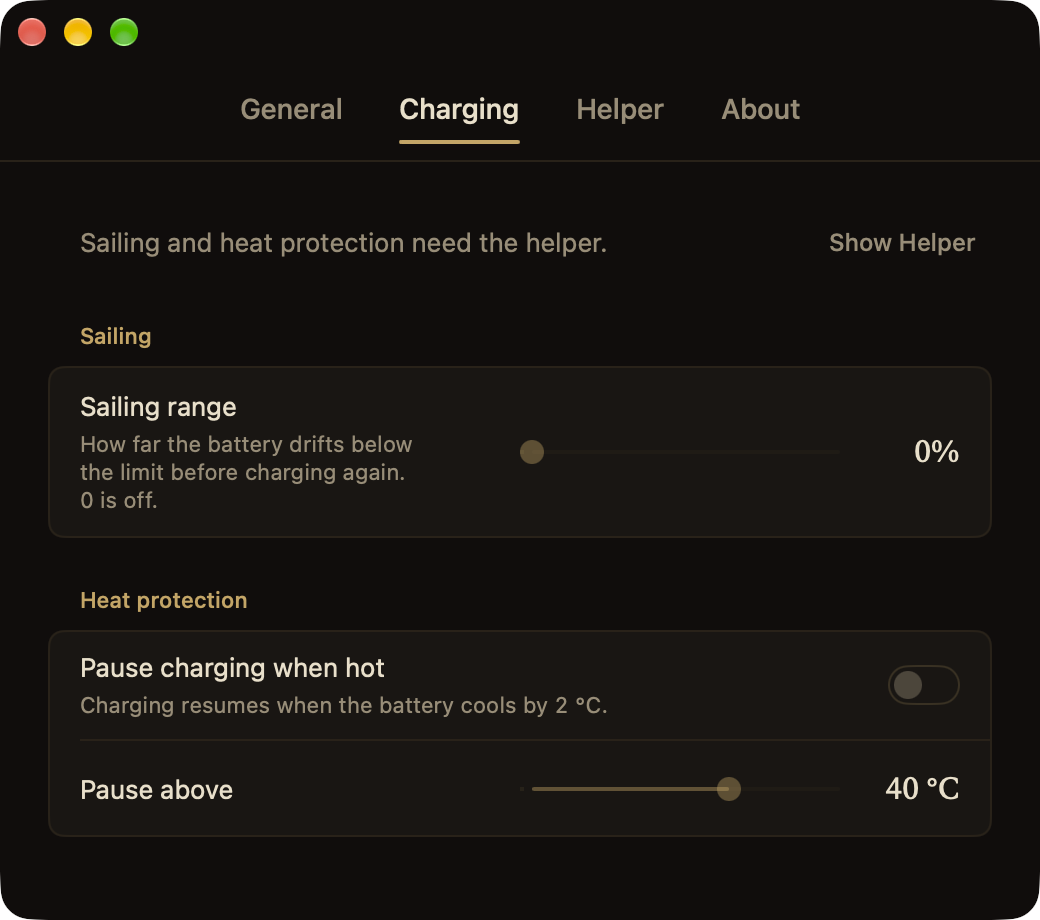
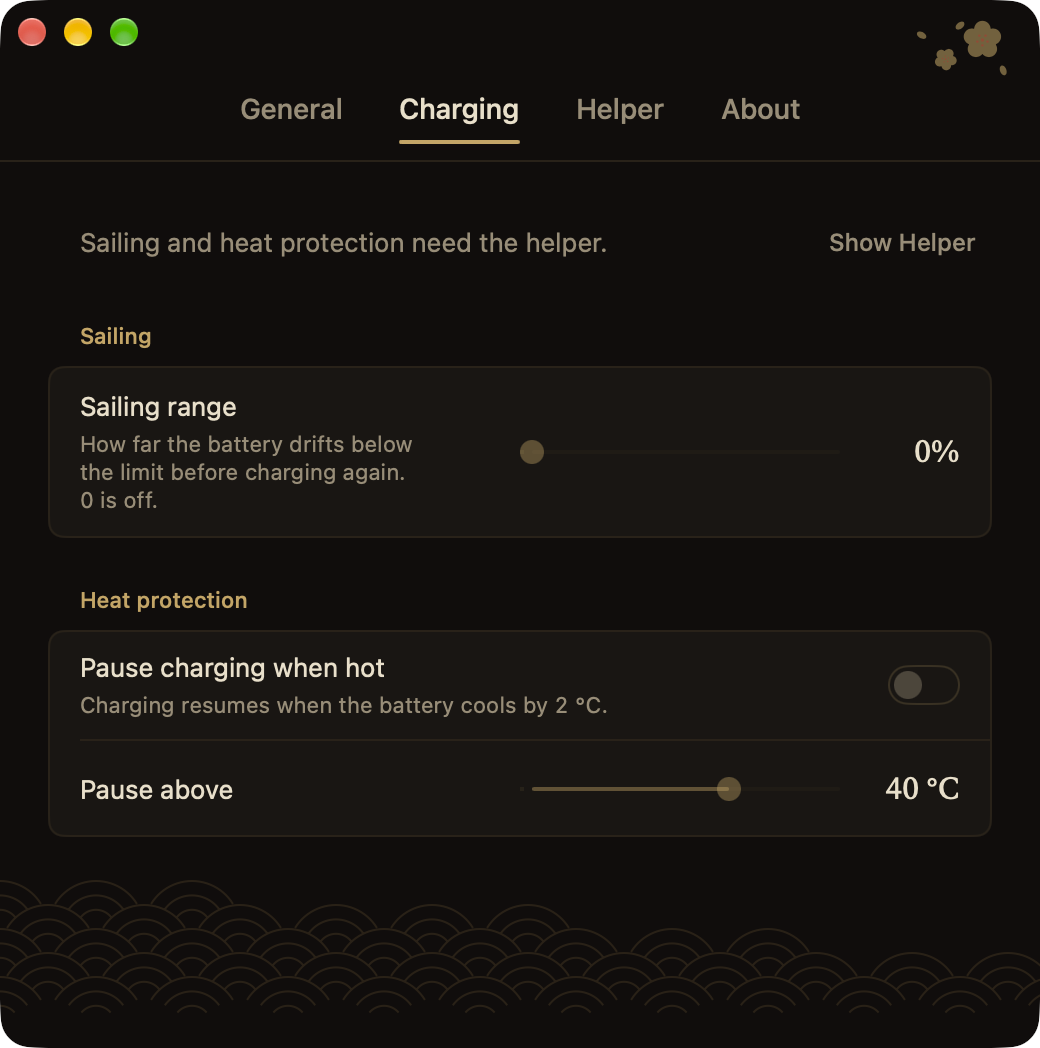
Add waves and plum blossoms to the Settings window and the About tab

diff --git a/Sources/Hachibu/DesignKit/Components/Motifs.swift b/Sources/Hachibu/DesignKit/Components/Motifs.swift
@@ -1,0 +1,120 @@
+import SwiftUI
+
+// The two motifs from the app icon, for quiet decoration. Both are hidden
+// from VoiceOver and never carry meaning.
+
+/// Seigaiha, the pattern of calm seas: rows of overlapping scales, each
+/// three concentric arcs, rising from the bottom edge and higher on the
+/// leading side, like a shoreline. Stroke it with `Ink.relief`.
+nonisolated struct Seigaiha: Shape {
+    /// The radius of one scale.
+    var radius: CGFloat = 24
+
+    func path(in rect: CGRect) -> Path {
+        var path = Path()
+        let r = radius
+        let rows = Int((rect.height / (r / 2)).rounded(.up)) + 2
+        let columns = Int((rect.width / (2 * r)).rounded(.up)) + 2
+        for row in 0..<rows {
+            let cy = rect.maxY + r * 0.25 - CGFloat(row) * r / 2
+            let shift: CGFloat = row % 2 == 1 ? r : 0
+            for column in -1..<columns {
+                let cx = rect.minX + CGFloat(column) * 2 * r + shift
+                let along = min(max((cx - rect.minX) / max(rect.width, 1), 0), 1)
+                let reach = rect.height * (1 - 0.65 * along)
+                if cy - r * 0.5 < rect.maxY - reach { continue }
+                // Each arc shows only where the rows below do not cover it.
+                let covers = [CGPoint(x: cx - r, y: cy + r / 2), CGPoint(x: cx + r, y: cy + r / 2),
+                              CGPoint(x: cx, y: cy + r)]
+                for share in [1.0, 0.7, 0.4] {
+                    let rho = r * CGFloat(share)
+                    var drawing = false
+                    let steps = 40
+                    for step in 0...steps {
+                        let angle = Double.pi + Double.pi * Double(step) / Double(steps)
+                        let point = CGPoint(x: cx + rho * CGFloat(cos(angle)), y: cy + rho * CGFloat(sin(angle)))
+                        let seen = point.y <= rect.maxY && covers.allSatisfy {
+                            hypot(point.x - $0.x, point.y - $0.y) >= r - 0.25
+                        }
+                        if seen {
+                            if drawing { path.addLine(to: point) } else { path.move(to: point) }
+                        }
+                        drawing = seen
+                    }
+                }
+            }
+        }
+        return path
+    }
+}
+
+/// Ume, the plum blossom: five round petals around a heart, with stamens.
+/// One flower, or a small sprig of two flowers and loose petals.
+struct UmeBlossom: View {
+    enum Arrangement { case single, sprig }
+
+    var size: CGFloat = 16
+    var arrangement: Arrangement = .single
+
+    var body: some View {
+        ZStack {
+            UmeShape(part: .petals, arrangement: arrangement).fill(Ink.accent)
+            UmeShape(part: .stamens, arrangement: arrangement).fill(Ink.seal)
+        }
+        .frame(width: arrangement == .sprig ? size * 3 : size, height: arrangement == .sprig ? size * 2 : size)
+        .accessibilityHidden(true)
+    }
+}
+
+nonisolated struct UmeShape: Shape {
+    enum Part { case petals, stamens }
+
+    var part: Part
+    var arrangement: UmeBlossom.Arrangement
+
+    func path(in rect: CGRect) -> Path {
+        var path = Path()
+        switch arrangement {
+        case .single:
+            flower(&path, center: CGPoint(x: rect.midX, y: rect.midY), size: min(rect.width, rect.height), turn: -18)
+        case .sprig:
+            // Laid out on a 3 x 2 box: a large flower, a small one, three loose petals.
+            let unit = rect.height / 2
+            func at(_ x: CGFloat, _ y: CGFloat) -> CGPoint { CGPoint(x: rect.minX + x * unit, y: rect.minY + y * unit) }
+            flower(&path, center: at(2.2, 0.75), size: unit * 1.2, turn: -18)
+            flower(&path, center: at(1.05, 1.35), size: unit * 0.7, turn: 12)
+            if part == .petals {
+                for (x, y, turn) in [(0.3, 0.6, 30.0), (1.5, 0.3, -40.0), (2.85, 1.7, 70.0)] {
+                    loosePetal(&path, center: at(CGFloat(x), CGFloat(y)), size: unit * 0.16, turn: turn)
+                }
+            }
+        }
+        return path
+    }
+
+    private func circle(_ path: inout Path, _ center: CGPoint, _ radius: CGFloat) {
+        path.addEllipse(in: CGRect(x: center.x - radius, y: center.y - radius, width: radius * 2, height: radius * 2))
+    }
+
+    private func flower(_ path: inout Path, center: CGPoint, size: CGFloat, turn: Double) {
+        for index in 0..<5 {
+            let petal = (turn + Double(index) * 72) * Double.pi / 180
+            let stamen = (turn + 36 + Double(index) * 72) * Double.pi / 180
+            switch part {
+            case .petals:
+                circle(&path, CGPoint(x: center.x + size * 0.287 * CGFloat(cos(petal)),
+                                      y: center.y + size * 0.287 * CGFloat(sin(petal))), size * 0.213)
+            case .stamens:
+                circle(&path, CGPoint(x: center.x + size * 0.139 * CGFloat(cos(stamen)),
+                                      y: center.y + size * 0.139 * CGFloat(sin(stamen))), size * 0.035)
+            }
+        }
+        circle(&path, center, part == .petals ? size * 0.167 : size * 0.046)
+    }
+
+    private func loosePetal(_ path: inout Path, center: CGPoint, size: CGFloat, turn: Double) {
+        let box = CGRect(x: -size, y: -size * 0.62, width: size * 2, height: size * 1.24)
+        let move = CGAffineTransform(translationX: center.x, y: center.y).rotated(by: CGFloat(turn * Double.pi / 180))
+        path.addPath(Path(ellipseIn: box).applying(move))
+    }
+}

diff --git a/Sources/Hachibu/DesignKit/Tokens.swift b/Sources/Hachibu/DesignKit/Tokens.swift
@@ -11,6 +11,7 @@ private enum Pigment {
     static let paperDeep: UInt32 = 0xECE5D7
     static let paperLine: UInt32 = 0xDDD3C0
     static let paperTick: UInt32 = 0xCFC3AB
+    static let paperRelief: UInt32 = 0xE3D8C3
     static let ink: UInt32 = 0x1F1B16
     static let inkSoft: UInt32 = 0x6F6558
 
@@ -18,6 +19,7 @@ private enum Pigment {
     static let lacquerRaised: UInt32 = 0x1A1613
     static let lacquerLine: UInt32 = 0x2A2218
     static let lacquerTick: UInt32 = 0x3F3320
+    static let lacquerRelief: UInt32 = 0x2B2115
     static let cream: UInt32 = 0xEADFC8
     static let creamSoft: UInt32 = 0x9A8D75
 
@@ -42,6 +44,8 @@ enum Ink {
     static let raised = Color(light: Pigment.paperDeep, dark: Pigment.lacquerRaised)
     static let hairline = Color(light: Pigment.paperLine, dark: Pigment.lacquerLine)
     static let tick = Color(light: Pigment.paperTick, dark: Pigment.lacquerTick)
+    /// Tone-on-tone decoration, like relief in lacquer: the wave pattern.
+    static let relief = Color(light: Pigment.paperRelief, dark: Pigment.lacquerRelief)
 
     static let text = Color(light: Pigment.ink, dark: Pigment.cream)
     static let textSoft = Color(light: Pigment.inkSoft, dark: Pigment.creamSoft)
@@ -121,6 +125,9 @@ enum Metric {
     static let toggleThumb: CGFloat = 14
     static let statusDot: CGFloat = 8
     static let appIconSize: CGFloat = 96
+    static let waveBand: CGFloat = 64
+    static let waveRadius: CGFloat = 24
+    static let blossom: CGFloat = 16
     static let glyphSize: CGFloat = 14
     static let glyphStroke: CGFloat = 2
 }

diff --git a/Sources/Hachibu/SettingsView.swift b/Sources/Hachibu/SettingsView.swift
@@ -24,8 +24,19 @@ struct SettingsView: View {
                 }
             }
             .padding(Space.xxl)
+            // Calm seas along the bottom edge, tone on tone, as on the icon.
+            Seigaiha(radius: Metric.waveRadius)
+                .stroke(Ink.relief, lineWidth: Metric.hairline)
+                .frame(height: Metric.waveBand)
+                .accessibilityHidden(true)
         }
         .frame(width: Metric.settingsWidth)
+        .overlay(alignment: .topTrailing) {
+            UmeBlossom(size: Metric.blossom, arrangement: .sprig)
+                .opacity(0.55)
+                .padding(.top, Space.sm)
+                .padding(.trailing, Space.lg)
+        }
         .background(Ink.surface)
         .ignoresSafeArea()
         .background(SettingsChrome())
@@ -175,7 +186,11 @@ struct AboutSettings: View {
             Text("Hara hachi bu: eat until you are eight parts full.\nHachibu stops charging before the battery is full, so it lasts longer.")
                 .kitType(.body).foregroundStyle(Ink.text)
                 .multilineTextAlignment(.center)
-            KitDivider()
+            HStack(spacing: Space.md) {
+                KitDivider()
+                UmeBlossom(size: Metric.blossom)
+                KitDivider()
+            }
             Text("The way to control charging on macOS 27 was documented by the open-source batt project.")
                 .kitType(.meta).foregroundStyle(Ink.textSoft)
                 .multilineTextAlignment(.center)

diff --git a/Sources/Hachibu/DesignKit/KitGallery.swift b/Sources/Hachibu/DesignKit/KitGallery.swift
@@ -125,6 +125,8 @@ struct KitGallery: View {
             HStack(spacing: Space.xl) {
                 SealMark()
                 SealMark(size: Metric.sealSmall)
+                UmeBlossom(size: Metric.blossom)
+                UmeBlossom(size: Metric.blossom, arrangement: .sprig)
                 HStack(spacing: Space.sm) {
                     ForEach([100, 80, 50, 20], id: \.self) { EnsoGlyph(percent: $0) }
                     EnsoGlyph(percent: nil)

diff --git a/design/KIT.md b/design/KIT.md
@@ -42,6 +42,7 @@ inside. Traffic lights, menus, and alerts stay system everywhere.
 | raised | paperDeep / lacquerRaised | cards |
 | hairline | paperLine / lacquerLine | card borders, slider track, dividers |
 | tick | paperTick / lacquerTick | gauge tick ring |
+| relief | #E3D8C3 / #2B2115 | tone-on-tone decoration: the wave pattern |
 | text | ink / cream | primary text, numerals |
 | textSoft | inkSoft / creamSoft | labels, captions |
 | gauge | ink / gold | the brush ring, slider fill, chart line |
@@ -250,6 +251,18 @@ its detail. It never looks like a working control.
 ### Status pill (`StatusPill`)
 A dot 8 pt and a word in `body`: idle (textSoft), good (accent), warning
 (warning). Never the dot alone.
+
+### Motifs (`Seigaiha`, `UmeBlossom`)
+The two motifs from the app icon, for quiet decoration only. Hidden from
+VoiceOver; they never carry meaning and never sit behind text.
+- Seigaiha (waves, calm seas): scales of radius 24, three arcs each,
+  stroked 1 pt in `Ink.relief`. A band 64 pt tall along the bottom edge of
+  the Settings window, higher on the leading side.
+- Ume (plum blossom): petals in `Ink.accent`, stamens in `Ink.seal`.
+  A sprig (two flowers, three loose petals) at 55% in the top trailing
+  corner of the Settings window; a single 16 pt flower in the middle of
+  the divider on the About tab.
+Not used in the popover: it is dense with numbers.
 
 ### Footer
 Ghost buttons in a row: "History…", "Settings…", "Quit Hachibu".
